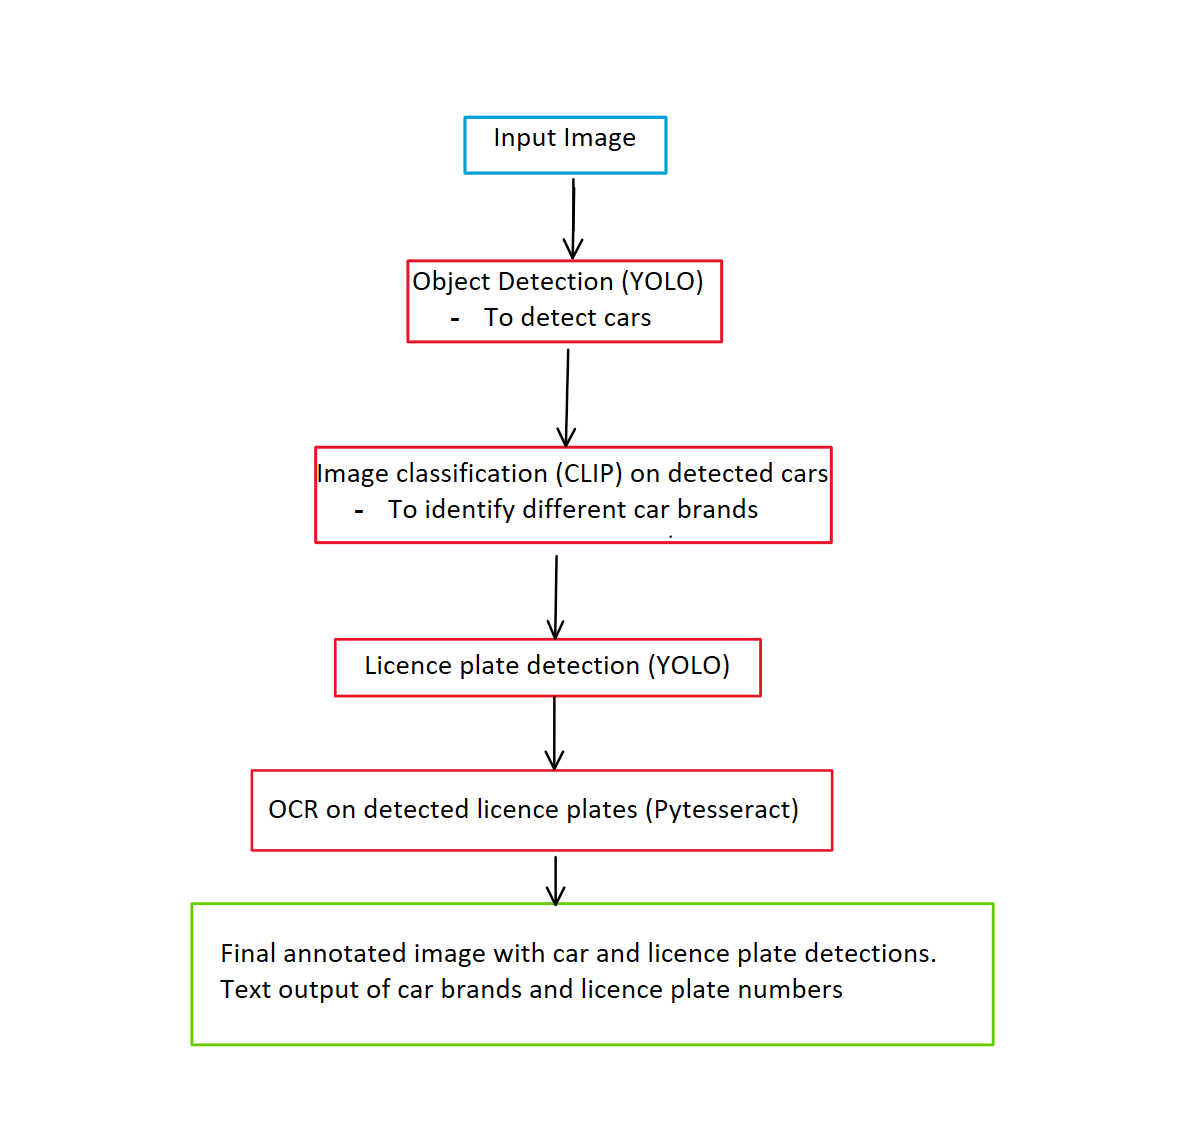
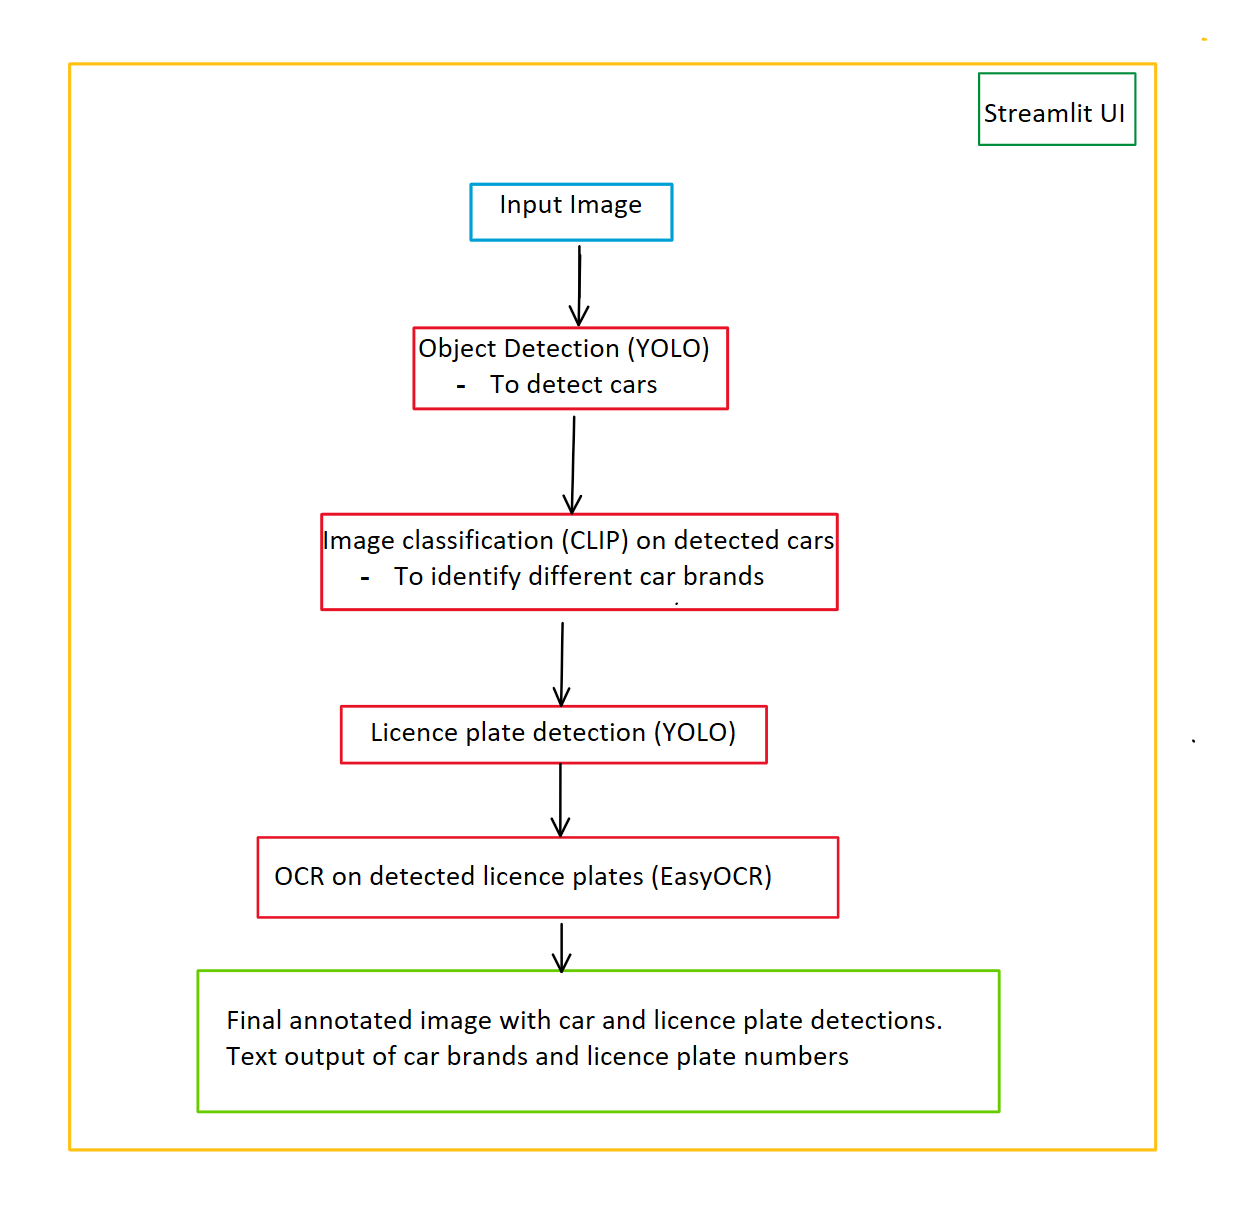
updated code

Changed region(s): [[0.1552, 0.0919, 0.8381, 0.9194], [0.0621, 0.0306, 0.9622, 0.9501], [0.031, 0.0613, 0.0621, 0.9501]]

diff --git a/utils/inference.py b/utils/inference.py
@@ -1,11 +1,10 @@
-from PIL import Image, ImageDraw
+from PIL import Image
 import torch
 from transformers import CLIPProcessor, CLIPModel
 from ultralytics import YOLO
-import pytesseract
+import easyocr
 
-#Replace with path to local installation of pytesseract
-pytesseract.pytesseract.tesseract_cmd = r'C:\Program Files\Tesseract-OCR\tesseract.exe' 
+reader = easyocr.Reader(['en'])
 
 def select_pytorch_device():
     """
@@ -22,8 +21,6 @@ def select_pytorch_device():
     else:
         return "cpu"
 
-
-
 class SingletonMeta(type):
     _instances = {}
     def __call__(cls, *args, **kwargs):
@@ -31,38 +28,35 @@ class SingletonMeta(type):
             cls._instances[cls] = super(SingletonMeta, cls).__call__(*args, **kwargs)
         return cls._instances[cls]
     
-    
 class Vehicle(metaclass=SingletonMeta):
     def __init__(self):
         # Initialize the models and processors
-        self.yolo_model = YOLO(r"model_weights/vehicle_weights.pt").to(self.device)
+        self.device = select_pytorch_device()
+        self.yolo_model = YOLO(r"utils\model_weights\vehicle_weights.pt").to(self.device)
         self.clip_model = CLIPModel.from_pretrained(r"openai/clip-vit-base-patch16").to(self.device)
         self.clip_processor = CLIPProcessor.from_pretrained(r"openai/clip-vit-base-patch16")
-        self.device = select_pytorch_device()
-
+        
     def detect_vehicle(self, image: Image):
         # YOLO detection logic
         results = self.yolo_model.predict(
             task="detect",
             source=image,
             save=False,  # Do not save predictions as we're going to stream them
-            conf=0.5,
-            classes=[3],
+            conf=0.1,
+            classes=[2,5,7],
             device=self.device)
         
         cropped_images = []
-        draw = ImageDraw.Draw(image) # Prepare to draw on the original image
         
         for r in results:
             # Check if there are any detections
-            if hasattr(r.boxes, 'xyxy') and len(r.boxes.xyxy) > 0 and (int(r.boxes.cls[0])) == 3:
+            if hasattr(r.boxes, 'xyxy') and len(r.boxes.xyxy) > 0:
                 for coordinates in r.boxes.xyxy:
                     x1, y1, x2, y2 = coordinates                 
                     cropped_image = image.crop((int(x1), int(y1), int(x2), int(y2)))
                     cropped_images.append(cropped_image)
-                    #draw.rectangle([x1, y1, x2, y2], outline="red", width = 4)
 
-                annotated_image = results[0].plot()
+        annotated_image = results[0].plot()
         return cropped_images, annotated_image
     
     def classify_vehicle(self, image: Image, class_names):
@@ -83,26 +77,31 @@ class Vehicle(metaclass=SingletonMeta):
 
         return class_names[indices[0].item()], values[0].item()
     
-class LicencePlate:
+class LicencePlate(metaclass=SingletonMeta):
     def __init__(self):
         # Initialize the models and processors
         self.device = select_pytorch_device()
         # Load the YOLO model 
-        self.model = YOLO(r"model_weights/licence_weights.pt").to(self.device)
+        self.model = YOLO(r"utils\model_weights\licence_weights.pt").to(self.device)
     
     def detect_licence(self, image: Image):
+        ocr_text=None
         results = self.model.predict(
             task="detect",
             source=image,
             save=False,  # Do not save predictions as we're going to stream them
             conf=0.3,
             device=self.device)
-        
+
         for detections in results:
-            for coordinates in detections.boxes.xyxy:
-                x1, y1, x2, y2 = coordinates
-                cropped_image = image.crop((int(x1), int(y1), int(x2), int(y2)))
-                text = pytesseract.image_to_string(cropped_image)
+            if hasattr(detections.boxes, 'xyxy') and len(detections.boxes.xyxy) > 0:
+                for coordinates in detections.boxes.xyxy:
+                    x1, y1, x2, y2 = coordinates
+                    cropped_image = image[int(y1):int(y2), int(x1):int(x2)]
+                    ocr_result = reader.readtext(cropped_image)
+                    for i in ocr_result:
+                        ocr_text = i[1]
         
         annotated_image = results[0].plot()
-        return text, annotated_image
+        return ocr_text, annotated_image
+        

diff --git a/run_app.py b/run_app.py
@@ -13,26 +13,39 @@ uploaded_file = st.file_uploader(
     type=["png", "jpg", "jpeg"],
 )
 
+# Placeholder for the images
+col1, col2 = st.columns(2)
+original_placeholder = col2.empty()
+annotated_placeholder = col1.empty()
+
 image = None  
 
 if uploaded_file is not None:
     original_image = Image.open(uploaded_file)
-    st.image(original_image, caption='Uploaded Image', use_column_width=True)
+    original_placeholder.image(original_image, caption='Uploaded Image', use_column_width=True)
 
     if original_image is not None:
         # Detect objects and get original image with bounding boxes
-        cropped_images, annotated_image = vehicle.detect_vehicle(original_image)
+        cropped_images, processed_image1 = vehicle.detect_vehicle(original_image)
 
         if cropped_images:
             for cropped_image in cropped_images:
                 class_name, confidence = vehicle.classify_vehicle(cropped_image, CLASS_NAMES)
-                st.write(f"Class: {class_name}, Confidence: {confidence:.2f}%")
-        
+                
         #Detect licence plates and run OCR on them
-        licence_number, annotated_image = licence.detect_licence(annotated_image)
-        st.write(f"Detect licence plates: {licence_number}")
+        licence_number, processed_image2 = licence.detect_licence(processed_image1)
 
         # Display the original image with bounding boxes
-        st.image(annotated_image, caption="Detected cars and licence plates", use_column_width=True)
+        annotated_placeholder.image(processed_image2, caption="Annotated Image", use_column_width=True)
+        
+        #Write results
+        st.write(f"Class: {class_name}, Confidence: {confidence:.2f}%")
+        if licence_number is not None:
+            st.write(f"Detected licence plate number: {licence_number}")
+        else:
+            st.write("No licence plate numbers could be extracted. Image unclear.")
     else:
         st.write("No objects detected.")
+
+    
+        

diff --git a/README.md b/README.md
@@ -14,7 +14,7 @@ CLIP:
 - Is a Vision Transformer that finds similarities between image text pairs. 
 - Used to perform image classification on the detected cards, to identify their brands.
 
-Pytesseract: 
+EasyOCR: 
 - Is an open-source tool used to perform OCR on images and extract text from them. 
 - Used to extract licence plate numbers from the detected licence plate.
 
@@ -31,19 +31,16 @@ Step 1:
 git clone https://github.com/SumanthAppala/Vehicle_Identification_System.git
 ```
 Step 2:
-- Download and install the pytesseract .exe from the official website. Change path to the .exe file in the code (utils/inference.py - line 8)
-
-Step 3:
 Run the below command to install the required python libraries:
 ```shell
 pip install -r requirements.txt
 ```
-Step 4:
+Step 3:
 In terminal run the below command:
 ```shell
 streamlit run run_app.py
 ```
-Step 5:
+Step 4:
 Once the UI pops up in browser, upload an image from 'data/sample_images' and it will process and display the out image and text
 
 # Important files/locations:
@@ -55,6 +52,10 @@ Once the UI pops up in browser, upload an image from 'data/sample_images' and it
 - utils/inference.py: Contains the detections and classification logic as well as code for the Vehicle and Licence plate identification System
 
 - utils/model_weights: contains the yolo object detection weights for the car detection and licence plate detection systems
+
+# Note:
+In the inference code, we use a 'SingletonMeta' type class. This ensures that only one instance of the class is created, no matter how many times it's called upon. This pattern can significantly reduce loading time as the initialization happens only once.
+
 
 
 
